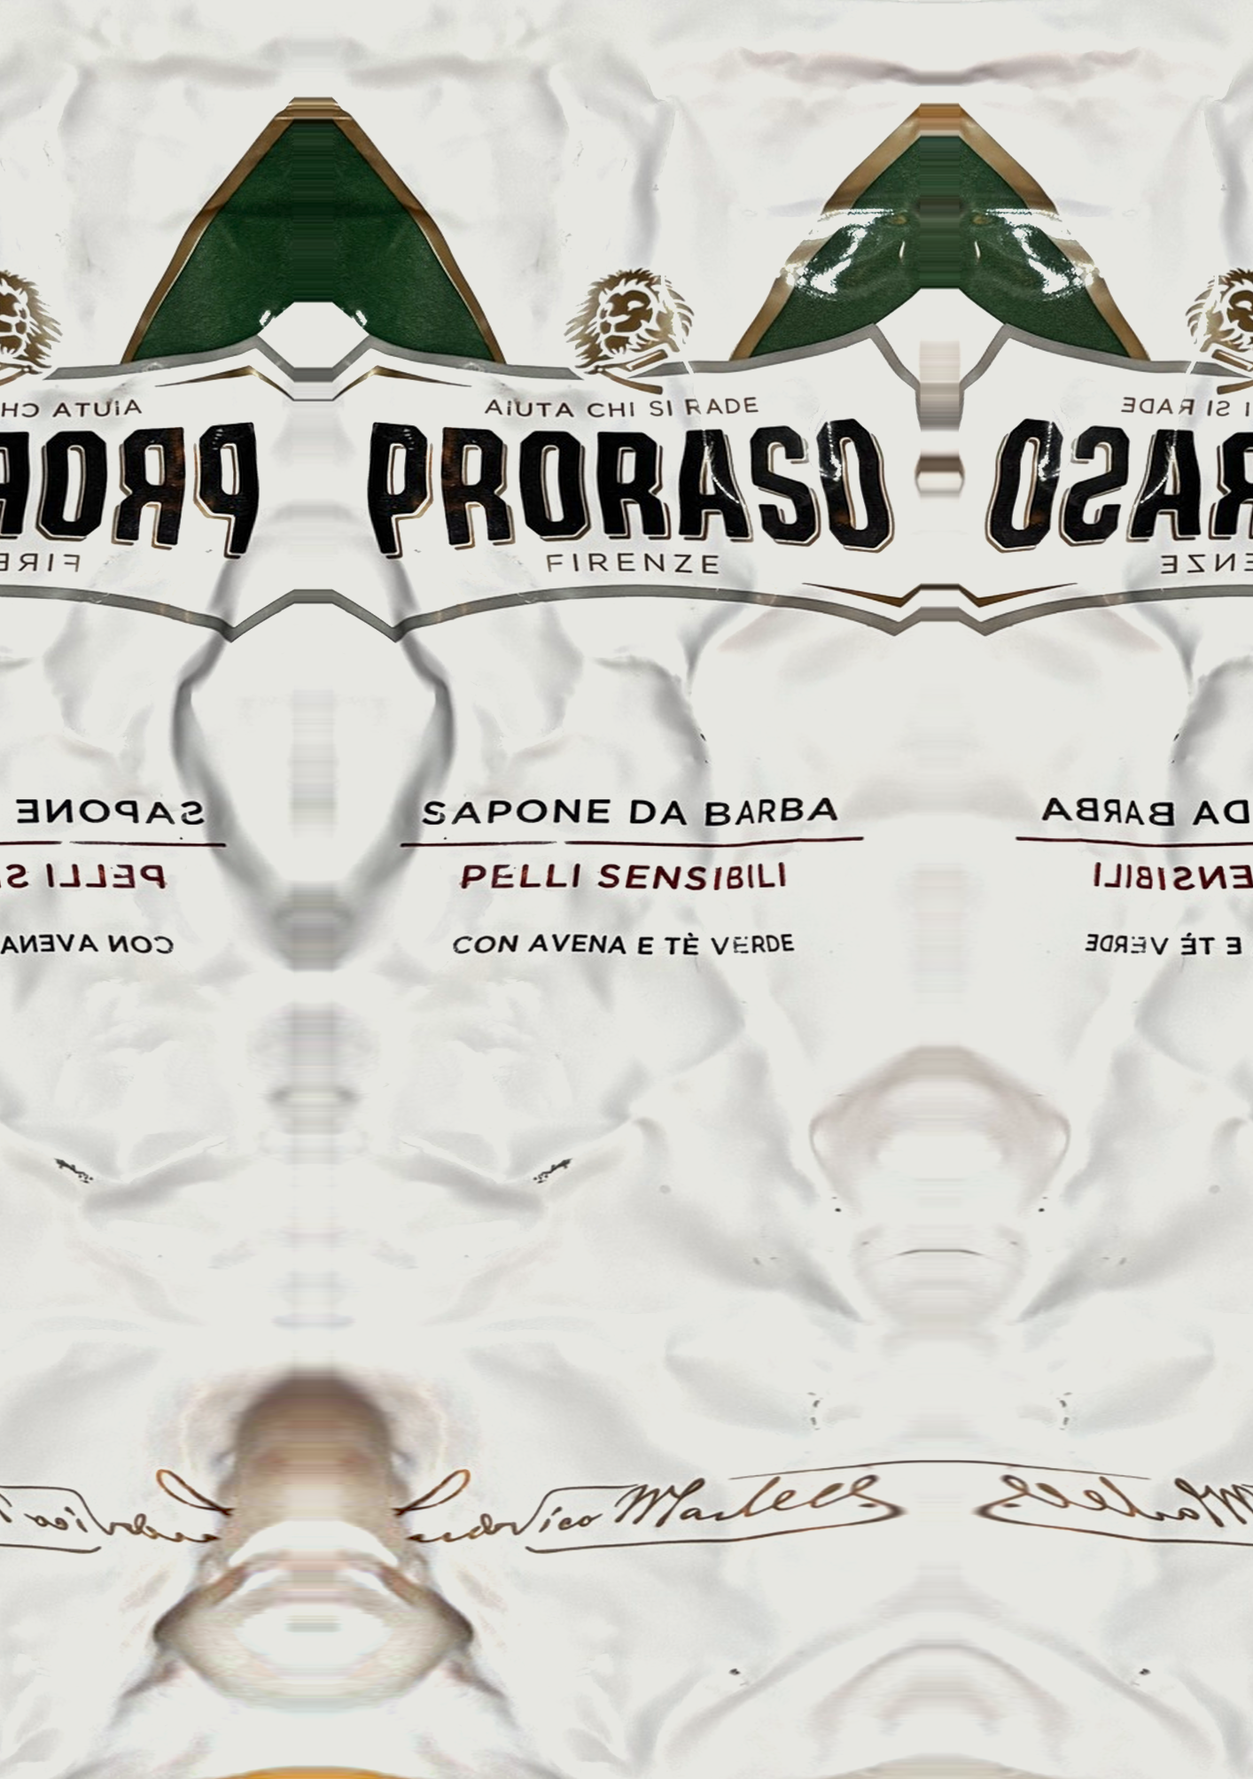
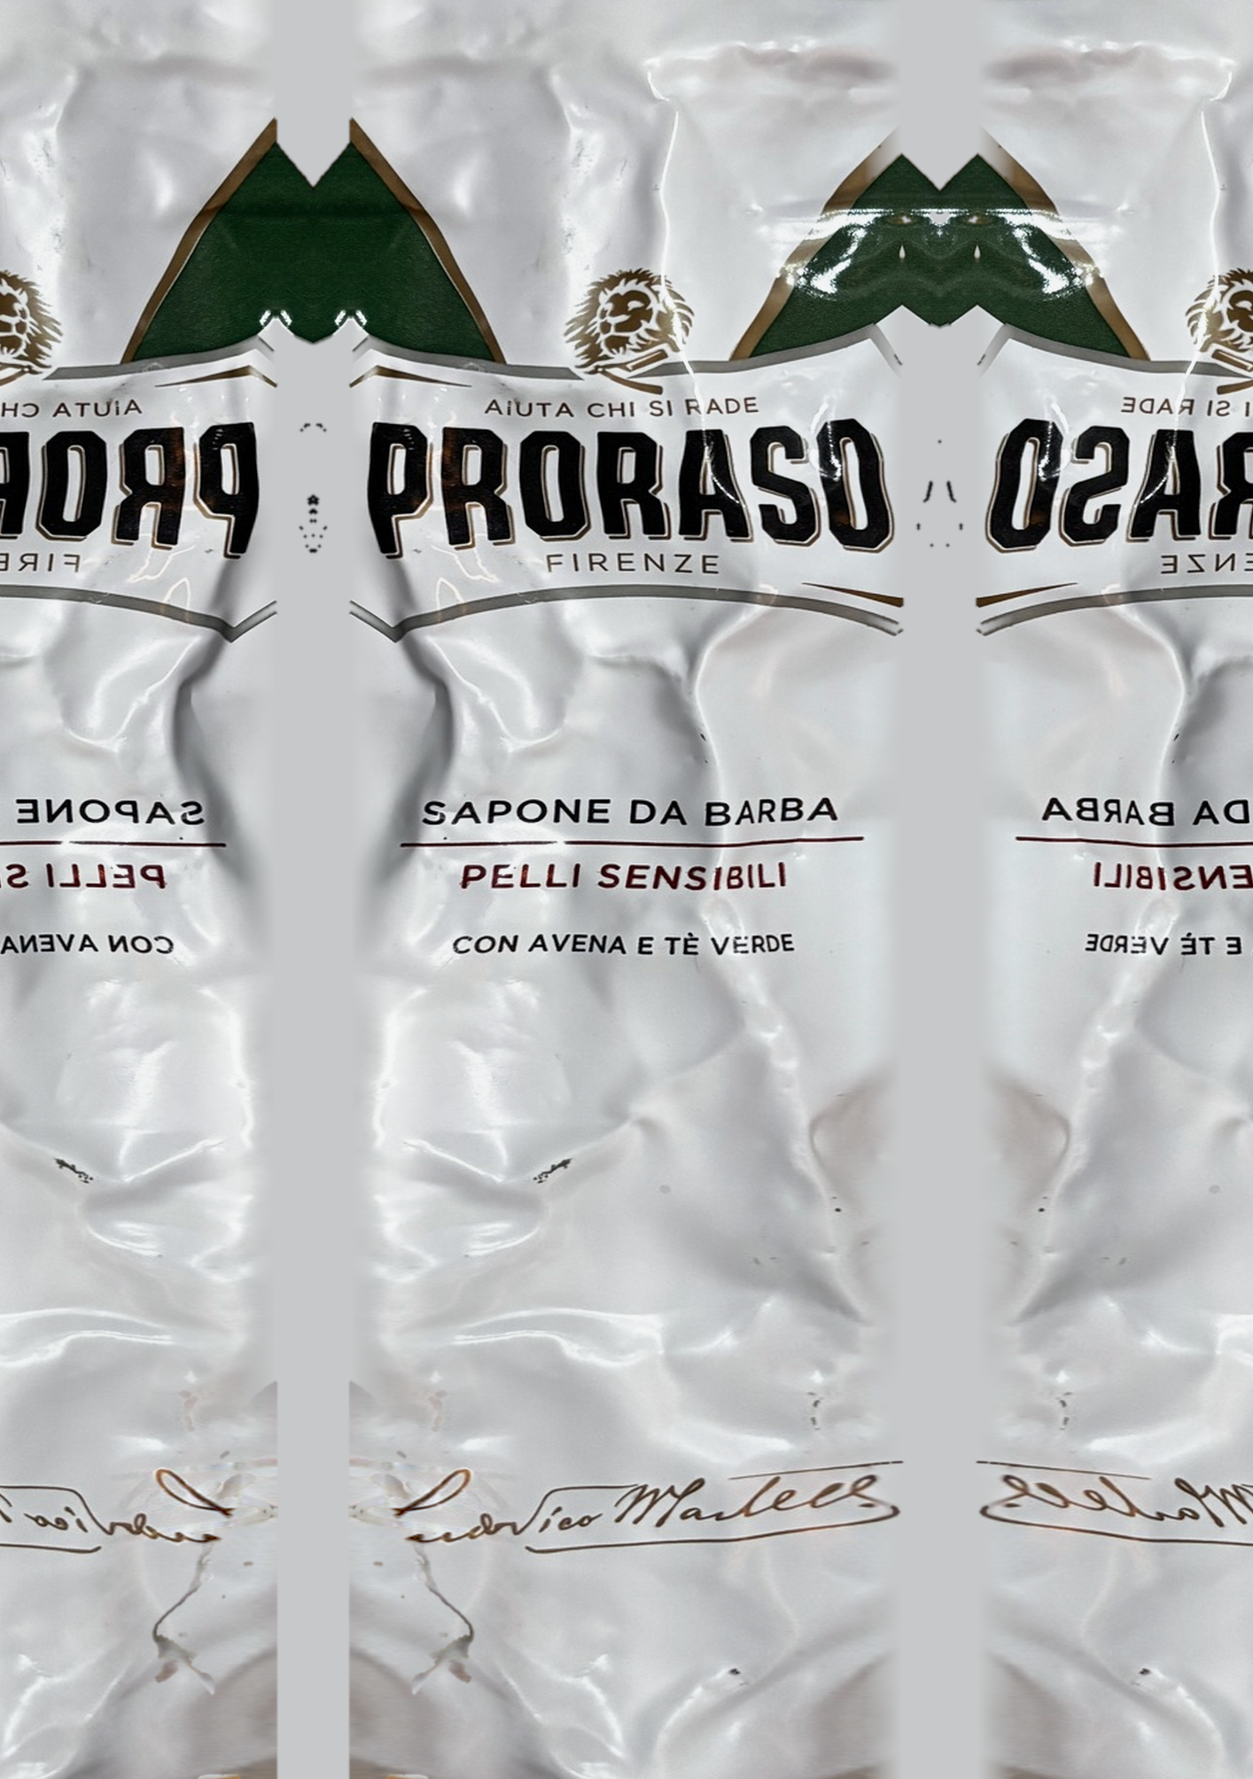
fix(extras): give the Proraso tube the photo's gloss, a straight outline and more width
Keep the photo's crease shading and glints in the print and drop the matte
patches, fingerprints and fine bump that made it read as clay. Dent only
the face up, a quarter of the shading's guess. Smooth the traced outline
over 1.5 em so its waves no longer read as bends, and draw the section
12.5% broader and deeper.

diff --git a/studio/desk/art/prorasophoto.py b/studio/desk/art/prorasophoto.py
@@ -30,6 +30,7 @@ HERE = os.path.dirname(os.path.abspath(__file__))
 PHOTO = os.path.join(HERE, "proraso-own.jpg")
 PRINT = os.path.join(HERE, "proraso-print.png")
 RELIEF = os.path.join(HERE, "proraso-relief.png")
+HEIGHT = os.path.join(HERE, "proraso-height.png")
 SHAPE = os.path.join(HERE, "proraso-shape.json")
 # As objects/proraso.py has it: the tube's length from the crimped edge to the shoulder, and the print's width once
 # round, in em.
@@ -46,17 +47,27 @@ SHOULDER = 1900.0
 # How deep the tube is, as a share of how wide, from the crimp to the shoulder: shut flat at the crimp, pressed flat
 # for the first few em, round by the shoulder. (along in em, share)
 DEEP = ((0.0, 0.03), (0.7, 0.03), (0.85, 0.02), (1.5, 0.05), (3.5, 0.09), (5.5, 0.17), (8.0, 0.3), (11.0, 0.47), (14.0, 0.62), (17.0, 0.8), (20.0, 0.95), (LENGTH, 1.0))
-# The lacquer's white in the model, #e4e4df; how far the light divided out is smoothed, along and round, and the
+# The lacquer's white in the print, #c7c9ca, low enough under the glints' white to leave them their light; how far the light divided out is smoothed, along and round, and the
 # size of the crumples' relief, in em.
-BODY = (0xE4, 0xE4, 0xDF)
-BROAD = (1.0, 0.25)
+BODY = (0xC7, 0xC9, 0xCA)
+BROAD = (2.0, 0.04)
 # How far round from the middle of the front the photograph is read, in shares of the way round.
-SIDE = 0.235
-# The photographer's shadow: from this far along (em), over the left side from this share round to this.
-SHADOW = (16.0, 0.25, 0.45)
+SIDE = 0.22
+# The photographer's shadow: from this far along (em), over the left side from this share round left of the middle
+# out to the edge.
+SHADOW = (16.5, 0.08)
 FINE = 0.12
-# How much brighter than the lacquer a glint may stay.
-GLINT = 0.04
+# The brightest a glint may be in the print, as linear white.
+GLINT = 0.92
+# The photograph's light, the way toward it across and down the print, and how steep a facet is per unit of log
+# brightness (a key about 60 degrees up).
+LIGHT = np.array((-0.3, -0.95))
+SLOPE = 2.6
+# The logo panel, from and to this far down the print (em).
+PANEL = (2.6, 7.8)
+# The crumples kept are finer than this (em), and their creases sharpened this much.
+BULGE = 0.4
+SHARPEN = 2.5
 
 
 def linear(c):
@@ -115,9 +126,11 @@ def main():
     share = (np.arange(cols_out) + 0.5) / cols_out
     # The back is the front mirrored about the sides.
     front = np.where(share < 0.25, 0.5 - share, np.where(share > 0.75, 1.5 - share, share))
-    # Toward each side the photograph sees the tube edge on, dark and with the marble in it: there the print is
-    # carried out from as far round as the photograph reads it.
-    front = np.clip(front, 0.5 - SIDE, 0.5 + SIDE)
+    # Toward each side the photograph sees the tube edge on, dark and with the marble in it: past as far round as
+    # it reads, the print is reflected back on itself.
+    reach = np.abs(front - 0.5)
+    facing = reach.copy()
+    front = 0.5 + np.sign(front - 0.5) * np.where(reach > SIDE, 2 * SIDE - reach, reach)
     ya = CRIMP + v * scale
     ra = np.interp(ya, rows, half)
     rb = ra * np.interp(v, *zip(*DEEP))
@@ -143,8 +156,8 @@ def main():
     inside = (np.abs(front - 0.5) < 0.17)[None, :]
     ink = ((g > 1.2 * r) & (g > 1.1 * b)) | ((r > 2.5 * g) & (r > 0.1)) | ((grey < 0.05) & (chroma < 0.8) & inside)
     white = ~ndimage.binary_dilation(ink, iterations=2)
-    # Its broad light divided out, colour and all: smoothed far along the tube and a little round it, so the falloff
-    # toward each edge goes and the crumples, which never run far, keep their own light and dark.
+    # Its broad light divided out, colour and all: smoothed far along the tube and hardly round it, so the falloff
+    # toward each edge goes and the crumples, which run every way, keep their own light and dark.
     sigma = (BROAD[0] * PX, BROAD[1] * PX)
     weight = ndimage.gaussian_filter(white.astype(np.float64), sigma, mode=("nearest", "wrap"))
     light = np.stack([ndimage.gaussian_filter(lin[..., k] * white, sigma, mode=("nearest", "wrap")) for k in range(3)], -1) / np.maximum(weight, 1e-6)[..., None]
@@ -153,21 +166,49 @@ def main():
         weight = ndimage.gaussian_filter(white.astype(np.float64), sigma, mode=("nearest", "wrap"))
         return np.stack([ndimage.gaussian_filter(lin[..., k] * white, sigma, mode=("nearest", "wrap")) for k in range(3)], -1) / np.maximum(weight, 1e-6)[..., None]
 
-    v0, s0, s1 = SHADOW
-    box = np.clip((v[:, None] - v0) / 1.5, 0, 1) * np.clip(1 - np.abs(np.abs(front - 0.5) * np.sign(0.5 - front) - (0.5 - (s0 + s1) / 2)) / ((s1 - s0) / 2), 0, 1)[None, :]
-    box = ndimage.gaussian_filter(box, 0.3 * PX)[..., None]
+    v0, x0 = SHADOW
+    box = np.clip((v[:, None] - v0) / 1.5, 0, 1) * np.clip((0.5 - front - x0) / 0.04, 0, 1)[None, :]
+    box = ndimage.gaussian_filter(box, 0.1 * PX)[..., None]
     light = light * (1 - box) + smoothed((0.3 * PX, 0.08 * PX)) * box
-    flat = lin / np.maximum(light, 1e-4)
-    # The photograph's glints are its lamp's, not the desk's: anything brighter than the lacquer is pressed back
-    # to it, and the render's own gloss puts the desk's glints on the crumples.
-    flat = np.where(flat > 1, 1 + GLINT * np.tanh((flat - 1) / GLINT), flat) * linear(np.array(BODY) / 255)
+    # For the print, the light is only the falloff toward each edge, the same all along, times the room's, brighter
+    # toward one end and the same all round. Neither has any crumple in it, so the crumples' shading and glints stay
+    # in the print just as the photograph has them.
+    lacquer = np.where((white & (box[..., 0] < 0.01))[..., None], lin, np.nan)
+    across = np.nanmedian(np.where(((v > 1.0) & (v < LENGTH - 0.6))[:, None, None], lacquer, np.nan), axis=0)
+    across = ndimage.gaussian_filter1d(across, 0.1 * PX, axis=0, mode="wrap")
+    down = np.nanmedian(np.where((np.abs(front - 0.5) < 0.12)[None, :, None], lacquer / across, np.nan), axis=1)
+    known = ~np.isnan(down)
+    down = ndimage.gaussian_filter1d(np.where(known, down, 0), PX, axis=0, mode="nearest") / np.maximum(ndimage.gaussian_filter1d(known.astype(np.float64), PX, axis=0, mode="nearest"), 1e-6)
+    lit = down[:, None] * across[None]
+    lit = lit * (1 - box) + smoothed((0.3 * PX, 0.08 * PX)) * box
+    flat = lin / np.maximum(lit, 1e-4)
+    # Under it, and at the edge beside it where the marble shows, the lacquer is the other side's, mirrored; the
+    # signature's ink stays its own.
+    stroke = (ndimage.grey_closing(grey, size=(9, 9)) - grey) > 0.22 * light.mean(-1)
+    printed = ndimage.gaussian_filter(ndimage.binary_dilation(ink | stroke, iterations=2).astype(np.float64), 1)[..., None]
+    borrow = box * (1 - printed) * (1 - printed[:, ::-1])
+    flat = flat * (1 - borrow) + flat[:, ::-1] * borrow
+    # Past what the photograph reads, only its coloured inks carry round; the lacquer there is plain, and takes its
+    # crumples from the wall's own shape.
+    beyond = np.clip((facing - (SIDE - 0.03)) / 0.03, 0, 1)[None, :, None]
+    coloured = ndimage.gaussian_filter(ndimage.binary_dilation(((g > 1.2 * r) & (g > 1.1 * b)) | ((r > 2.5 * g) & (r > 0.1)) | ((grey < 0.06) & (facing < SIDE)[None, :]), iterations=2).astype(np.float64), 1)[..., None]
+    lacquer = np.median(flat[white & (np.abs(front - 0.5) < 0.1)[None, :]], axis=0)
+    flat = flat * (1 - beyond * (1 - coloured)) + lacquer * beyond * (1 - coloured)
+    # The glints are kept, as bright as the print can hold: up to GLINT white, eased in.
+    body = linear(np.array(BODY) / 255)
+    head = (GLINT - body) / body
+    flat = np.where(flat > 1, 1 + head * np.tanh((flat - 1) / head), flat) * body
     srgb = np.clip(encode(flat) * 255, 0, 255).astype(np.uint8)
     Image.fromarray(srgb, "RGB").save(PRINT)
 
     # The crumples' relief: the white's fine light and dark, the inks left out.
     # The gold and the grey of the panel's frame are inks here too: any line much darker than the lacquer around it.
     gilt = (r > g) & (g > b) & (chroma > 0.5)
-    lines = (grey < 0.55 * light.mean(-1)) & ~ndimage.binary_opening(grey < 0.55 * light.mean(-1), iterations=4)
+    # Thin printed lines (the frame, the rules, the signature): much darker than a closing of the picture over them.
+    lines = (ndimage.grey_closing(grey, size=(9, 9)) - grey) > 0.22 * light.mean(-1)
+    # The logo panel's grey frame is broad and pale: inside its band, a wider and gentler test.
+    band = ((v > PANEL[0]) & (v < PANEL[1]))[:, None]
+    lines |= band & ((ndimage.grey_closing(grey, size=(19, 19)) - grey) > 0.1 * light.mean(-1))
     clean = white & ~ndimage.binary_dilation(gilt | lines, iterations=3)
     plain = ndimage.gaussian_filter(ndimage.binary_erosion(clean, iterations=6).astype(np.float64), 2)
     level = np.log(np.maximum(grey, 1e-3) / np.maximum(light.mean(-1), 1e-3))
@@ -177,6 +218,48 @@ def main():
     fine *= plain
     relief = 128 + 127 * np.clip(fine / (3 * fine[plain > 0.5].std()), -1, 1)
     Image.fromarray(relief.astype(np.uint8), "L").save(RELIEF)
+
+    # The creases themselves, for the wall's shape, from the photograph's shading. Its light fell from the crimp's end
+    # and a little from the left (LIGHT, toward it in the print, x across and y down), so a facet tilted toward it
+    # is lighter and one tilted away darker: the shading is the slope along that way, SLOPE em up per unit of
+    # log brightness. The height whose slope that is comes from a Poisson solve. Where there is ink, and in the
+    # glints, the shading is not the metal's: there the slope is carried over smoothly from the lacquer round it.
+    # The photographer's shadow is not the metal's either.
+    plain = plain * (1 - box[..., 0])
+    shade = np.clip(level, -0.6, 0.25)
+    shade = shade - ndimage.gaussian_filter(shade * plain, 0.8 * PX) / np.maximum(ndimage.gaussian_filter(plain, 0.8 * PX), 1e-6)
+    near = ndimage.gaussian_filter(plain, 0.05 * PX)
+    filled = ndimage.gaussian_filter(shade * plain, 0.05 * PX) / np.maximum(near, 1e-6)
+    shade = shade * plain + filled * (1 - plain) * np.clip(near / 0.2, 0, 1)
+    # Under the photographer's shadow the crumples are borrowed from the other side of the front, mirrored.
+    hidden = box[..., 0]
+    shade = shade * (1 - hidden) + shade[:, ::-1] * hidden
+    dx, dy = LIGHT / np.hypot(*LIGHT)
+    slope = -SLOPE * shade
+    gx, gy = slope * dx, slope * dy
+    # Mirrored down, so the solve wraps cleanly both ways; once round already wraps across.
+    gx = np.concatenate((gx, gx[::-1]), 0)
+    gy = np.concatenate((gy, -gy[::-1]), 0)
+    div = (np.roll(gx, -1, 1) - np.roll(gx, 1, 1)) / 2 + (np.roll(gy, -1, 0) - np.roll(gy, 1, 0)) / 2
+    fy, fx = np.meshgrid(np.fft.fftfreq(div.shape[0]), np.fft.fftfreq(div.shape[1]), indexing="ij")
+    lap = -(np.sin(np.pi * fx) ** 2 + np.sin(np.pi * fy) ** 2) * 4
+    lap[0, 0] = 1
+    solved = np.fft.fft2(div) / lap
+    solved[0, 0] = 0
+    height = np.real(np.fft.ifft2(solved))[:rows_out] / PX
+    # The tube's own roundness the model has already: only the crumples, finer than an em or so, are kept.
+    height -= ndimage.gaussian_filter(height, (BULGE * PX, BULGE * PX), mode=("nearest", "wrap"))
+    # Thin metal folds in flat facets meeting at sharp creases: the finest of the solve, which a Poisson solve
+    # always softens, given back.
+    height += SHARPEN * (height - ndimage.gaussian_filter(height, 0.05 * PX, mode=("nearest", "wrap")))
+    span = float(np.abs(height).max())
+    Image.fromarray(((height / span * 0.5 + 0.5) * 65535).astype(np.uint16)).save(HEIGHT)
+    with open(SHAPE) as file:
+        record = json.load(file)
+    record["crumple"] = span
+    with open(SHAPE, "w") as file:
+        json.dump(record, file)
+    print("crumples", round(height.std(), 4), "em deep (sd),", round(span, 3), "at most")
     print(cols_out, "x", rows_out, "white", round(white.mean(), 3), "crimp", round(a[0], 2), "shoulder", round(a[-1], 2), "em half width")
 
 

diff --git a/studio/desk/objects/proraso.py b/studio/desk/objects/proraso.py
@@ -20,19 +20,30 @@ from stock import Sheet, pixels_of
 ART = os.path.join(os.path.dirname(os.path.abspath(__file__)), "..", "art")
 
 # The tube's outline from the photograph: every 0.05 em from the crimped edge, its half width, its depth and how far
-# its middle wanders off its axis, in em.
+# its middle wanders off its axis, in em. Drawn WIDE times as broad and deep as the photograph measures it, the
+# length kept, and its width and middle smoothed over STRAIGHT em: the photograph's small waves in the outline read
+# as bends.
+WIDE = 1.125
+STRAIGHT = 1.5
 with open(os.path.join(ART, "proraso-shape.json")) as _file:
     SHAPE = json.load(_file)
+_reach = int(3 * STRAIGHT / 0.05)
+_kernel = np.exp(-0.5 * (np.arange(-_reach, _reach + 1) * 0.05 / STRAIGHT) ** 2)
+for _key in ("half", "deep", "off"):
+    _line = np.array(SHAPE[_key])
+    if _key != "deep":
+        _line = np.convolve(np.pad(_line, _reach, mode="edge"), _kernel / _kernel.sum(), mode="valid")
+    SHAPE[_key] = list(WIDE * _line)
 # The print's width once round (as art/prorasophoto.py lays it out), the length from the crimped edge to the
 # shoulder, and the diameter at the shoulder, where the tube is round.
 FRONT = math.pi * 5.0 / 2
 LENGTH = 22.31
 D = 2 * SHAPE["half"][-1]
 FOLD = 0.7
-# How deep the crumples' relief is pressed into the lacquer, in em.
-CRUMPLE = 0.012
+# How much of the crumples' depth the wall takes.
+DENT = 0.25
 
-BODY = "#e4e4df"
+BODY = "#c7c9ca"
 PLASTIC = "#e6e5e0"
 
 # The shoulder domes in from the wall to the neck, and the cap covers the neck from where the dome is this wide.
@@ -40,7 +51,24 @@ DOME = 0.62
 NECK = 0.72
 CAP_R, CAP_H = 0.345 * D, 0.53 * D
 RIBS = 84
-W, H = 25.5, 7.95
+W, H = 25.5, 8.95
+
+
+def crumples(rows, cols):
+    """The crumples' height, in em, from the photograph's shading (art/prorasophoto.py), at rows by cols over the
+    print: once round across, crimp to shoulder down. Dying out over the folded crimp and at the shoulder."""
+    image = pixels_of(os.path.join(ART, "proraso-height.png"))[..., 0].astype(np.float64)
+    ys = np.clip((np.arange(rows) + 0.5) * image.shape[0] / rows - 0.5, 0, image.shape[0] - 1)
+    xs = (np.arange(cols) + 0.5) * image.shape[1] / cols - 0.5
+    y0 = np.minimum(ys.astype(int), image.shape[0] - 2)
+    x0 = np.floor(xs).astype(int) % image.shape[1]
+    x1 = (x0 + 1) % image.shape[1]
+    fy, fx = (ys - y0)[:, None], (xs - np.floor(xs))[None, :]
+    top = image[y0][:, x0] * (1 - fx) + image[y0][:, x1] * fx
+    bottom = image[y0 + 1][:, x0] * (1 - fx) + image[y0 + 1][:, x1] * fx
+    height = ((top * (1 - fy) + bottom * fy) - 0.5) * 2 * SHAPE["crumple"]
+    along = (np.arange(rows) + 0.5) / rows * LENGTH
+    return height * (ramp(FOLD, FOLD + 0.5, along) * (1 - ramp(LENGTH - 0.6, LENGTH - 0.1, along)))[:, None]
 
 
 def label():
@@ -49,14 +77,6 @@ def label():
     Y = sheet.Y
     shape = sheet.height.shape
     sheet.art(os.path.join(ART, "proraso-print.png"), 0, 0, 2 * FRONT, LENGTH)
-    rows, cols = shape
-    relief = pixels_of(os.path.join(ART, "proraso-relief.png"))[..., 0].astype(np.float64)
-    ys = (np.arange(rows) + 0.5) * relief.shape[0] / rows - 0.5
-    xs = (np.arange(cols) + 0.5) * relief.shape[1] / cols - 0.5
-    y0, x0 = np.clip(ys.astype(int), 0, relief.shape[0] - 1), np.clip(xs.astype(int), 0, relief.shape[1] - 1)
-    # Only the creases' dark lines are pressed in, as grooves: the photograph's bright lines are its own glints, which
-    # the gloss makes again where the grooves' walls catch the light.
-    sheet.height += np.minimum(blur(relief[y0][:, x0], 1.5) - 0.5, 0) * 2 * CRUMPLE
 
     # The crimp: the end folded over three times and pressed, each fold a step down toward the wall, none of them
     # straight, and the jaws' teeth bitten into it.
@@ -67,16 +87,13 @@ def label():
     bitten = np.clip(0.6 + 0.5 * cloud(shape, 13, falloff=1.8), 0, 1) * band
     sheet.press((0.5 + 0.5 * np.cos(2 * np.pi * sheet.X / 0.085)) * bitten, 0.006)
 
-    # The gold is a pale metallic ink, and the green a translucent lacquer over the aluminium: both found by colour.
+    # The gold is a pale metallic ink, found by colour; the green is a plain gloss ink, as bright as the photograph's.
     r, g, b = sheet.rgb[..., 0], sheet.rgb[..., 1], sheet.rgb[..., 2]
     gilt = np.clip(((r - b) / np.maximum(r, 1e-3) - 0.35) / 0.15, 0, 1) * np.clip((g / np.maximum(r, 1e-3) - 0.6) / 0.1, 0, 1) * np.clip((r - 0.08) / 0.05, 0, 1)
     sheet.finish(gilt, metal=0.35)
-    green = np.clip(((g - np.maximum(r, b)) / np.maximum(g, 1e-3) - 0.3) / 0.15, 0, 1)
-    sheet.finish(green, metal=0.4)
 
-    # The whole print is under one clear varnish, a little duller in the broad patches where it is held.
+    # The whole print is under one clear, hard varnish.
     sheet.coat[:] = 0.8
-    sheet.finish(np.clip(0.5 + 0.4 * cloud(shape, 7, falloff=2.6), 0, 1), rough=0.26)
     return sheet
 
 
@@ -118,7 +135,7 @@ def lacquer(sheet, name, wear=()):
         worn(material, asset, size, dull)
     varnish = nodes.new("ShaderNodeMath")
     varnish.operation = "MULTIPLY"
-    varnish.inputs[1].default_value = 0.3
+    varnish.inputs[1].default_value = 0.12
     links.new(shader.inputs["Roughness"].links[0].from_socket, varnish.inputs[0])
     links.new(varnish.outputs[0], shader.inputs["Coat Roughness"])
     return material
@@ -127,7 +144,7 @@ def lacquer(sheet, name, wear=()):
 def body(stage, material):
     """The wall of the tube: every section an oval as wide as the photograph shows the tube there and as deep as
     the shape has it, its middle where the photograph's is."""
-    rings, steps = 960, 480
+    rings, steps = 1440, 720
     along = np.linspace(0, LENGTH, rings)
     a = np.interp(along, SHAPE["along"], SHAPE["half"])
     b = np.maximum(np.interp(along, SHAPE["along"], SHAPE["deep"]), 0.11)
@@ -141,7 +158,13 @@ def body(stage, material):
         ds = np.hypot(a[i] * np.cos(phi), b[i] * np.sin(phi))
         s = np.concatenate(([0], np.cumsum((ds[1:] + ds[:-1]) / 2)))
         turn[i] = np.interp(share * s[-1], s, phi)
-    y, z = a[:, None] * np.sin(turn) + off[:, None], b[:, None] * np.cos(turn)
+    y, z = a[:, None] * np.sin(turn), b[:, None] * np.cos(turn)
+    # The crumples pushed out along each point's normal on the oval, gently: the print carries the photograph's own
+    # shading of them. Only on the face up: the outline is already the photograph's, dents and all.
+    ny, nz = b[:, None] * np.sin(turn), a[:, None] * np.cos(turn)
+    length = np.hypot(ny, nz)
+    push = DENT * crumples(rings, steps) * (1 - ramp(0.12, 0.2, np.abs(share - 0.5)))[None, :]
+    y, z = y + push * ny / length + off[:, None], z + push * nz / length
 
     # It lies on the mat. The crimped end has a wave in it, its edge is not cut quite straight, and one corner has
     # been bent a little up off the mat.
@@ -221,8 +244,8 @@ def cap(stage, plastic):
 
 
 def proraso(stage):
-    paint = lacquer(label(), "lacquer", wear=(("Fingerprints009", 7, 0.05),))
-    enamel = worn(principled("enamel", "#e2e2de", rough=0.28), "SurfaceImperfections003", 3, 0.15)
+    paint = lacquer(label(), "lacquer")
+    enamel = worn(principled("enamel", BODY, rough=0.28), "SurfaceImperfections003", 3, 0.15)
     plastic = worn(grain(principled("cap", PLASTIC, rough=0.4), 320, 0.0015), "SurfaceImperfections003", 3, 0.12)
 
     root = stage.add("proraso", None)

diff --git a/studio/desk/desk.py b/studio/desk/desk.py
@@ -73,7 +73,7 @@ PROPS = {
     "wallet": {"box": (14.8, 18.0), "shots": {"wallet": (0, 0, 0)}},
     "pick-fin": {"box": (3.145, 3.3), "k": 1.6, "shots": {"pick-fin": (0, 0, 0)}},
     "pick-wedge": {"box": (2.76, 3.125), "k": 1.6, "shots": {"pick-wedge": (0, 0, 0)}},
-    "proraso": {"box": (25.5, 7.95), "shots": {"proraso": (0, 0, 0)}},
+    "proraso": {"box": (proraso.W, proraso.H), "shots": {"proraso": (0, 0, 0)}},
     "razor": {"box": (17.5, 7.3), "shots": {"razor": (0, 0, 0)}},
     "catlamp": {"box": (27.0, 10.0), "k": 0.7, "shots": {"catlamp": (0, 0, 0)}},
     "donutlamp": {"box": (donutlamp.W, donutlamp.H), "shots": {"donutlamp": (0, 0, 0)}},
